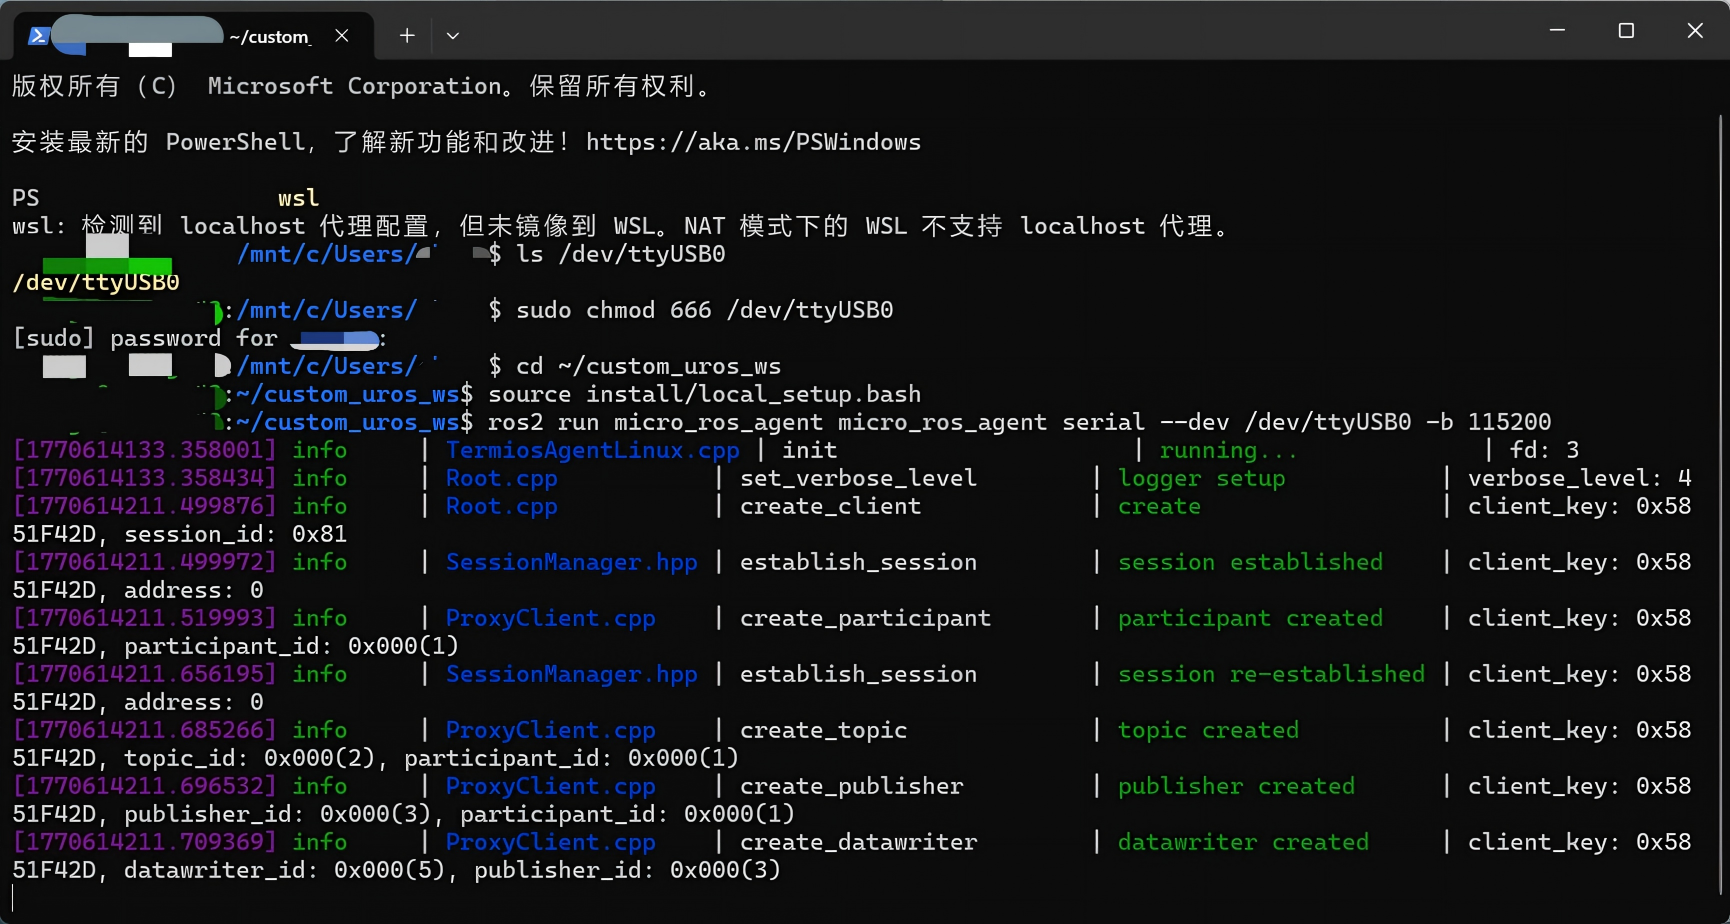
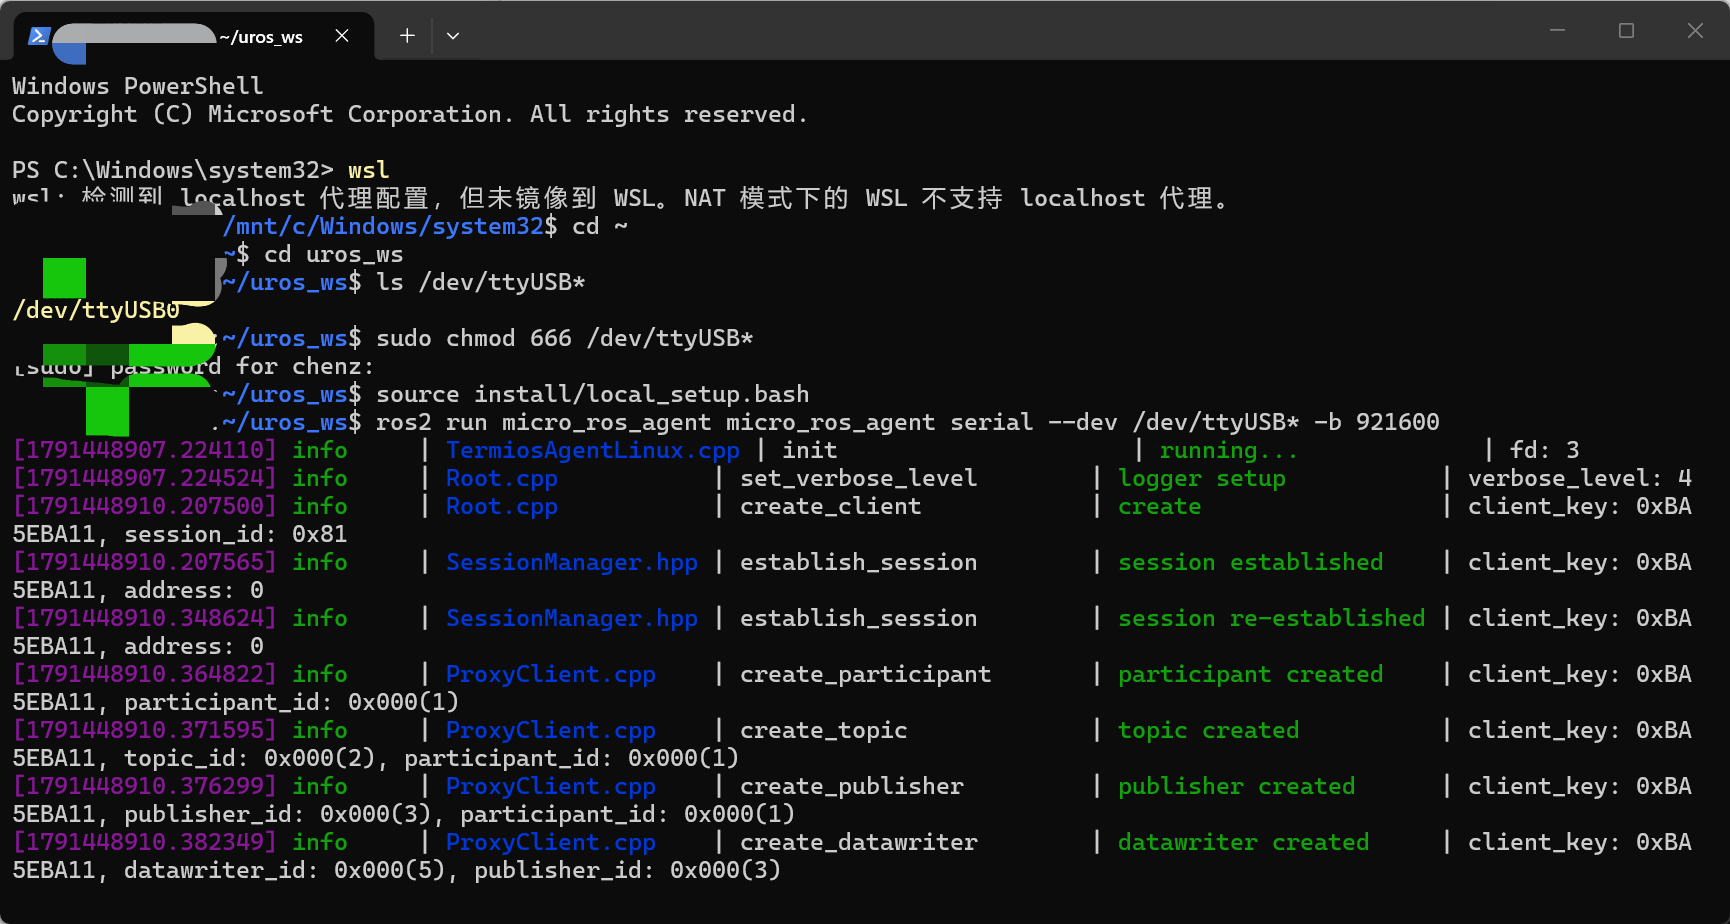
add microros 中间件配置 doc

diff --git a/docs/zh/Electrical/Lib/MicroROS/中间件配置/中间件配置.md b/docs/zh/Electrical/Lib/MicroROS/中间件配置/中间件配置.md
@@ -1,0 +1,115 @@
+# 中间件配置
+
+[官方参考资料](https://micro.vulcanexus.org/docs/tutorials/advanced/microxrcedds_rmw_configuration/)
+
+micro-ROS是专门运行在资源极度有限的微控制器上的 ROS 2。由于单片机的内存十分有限，不能随意浪费，所以精打细算的内存配置和**调优**是必不可少的，这样才能让micro-ROS在极小内存的芯片上高效运行。
+
+## 为什么要调优
+
++ **痛点：**普通电脑上的 ROS 2 喜欢用动态内存分配，但这在单片机上极易导致内存碎片化或内存溢出崩溃。
++ **解决策略：**micro-ROS 几乎把所有内存都改成了静态内存池，相当于提前占好固定大小的位置。
++ **带来的要求：**开发者必须在编译前做调优，用几个节点，发多大的包，都需要“量身定制”。
+
+## 内存资源优化
+
+### 底层的 Micro XRCE-DDS（负责数据网络传输）
+
+单片机和上位机之间是通过 **Stream（流/消息队列）** 进行通信的。流分为两种模式：
+
+![](./picture/p1.png)
+
+![](./picture/p2.png)
+
+| 通信模式                    | 工作方式                                                 | 内存结构                                                  | 最大消息长度             |
+| :-------------------------- | :------------------------------------------------------- | :-------------------------------------------------------- | :----------------------- |
+| **Best-Effort（尽力而为）** | 像单格信箱，信件只放一封，发出去就不管了，丢了不补发。   | 只有一个数据缓冲区，每次只能 推送一条消息。               | MTU - 12字节             |
+| **Reliable（可靠传输）**    | 像多格储物柜，把缓冲区切成多个槽位，支持重发和确认应答。 | 缓冲区被切分为多个连续的槽位，存放多条待确认/重发的消息。 | (MTU - 12字节) *槽位数量 |
+
+> **关键 CMake 调优参数：**
+>
+> - **单次传输单元大小（MTU）**：
+>   - 根据通信方式（UDP/TCP/串口）设置：`UCLIENT_UDP_TRANSPORT_MTU`、`UCLIENT_TCP_TRANSPORT_MTU`、`UCLIENT_SERIAL_TRANSPORT_MTU`。
+>   - 它决定了尽力而为流的缓冲区大小，同时也等于可靠流中**单个槽位**的大小。
+> - **可靠流的槽位数量（History）**：
+>   - `RMW_UXRCE_STREAM_HISTORY`：决定可靠传输队列里最多能存几条消息。
+> - **QoS 关联**：在代码中通过 QoS 策略选择是 `BEST_EFFORT` 还是 `RELIABLE`，底层就会走对应的缓冲区逻辑。
+
+### 上层的 rmw-microxrcedds （ROS 2 实体内存池）
+
+为了管理 ROS 概念中的节点、话题发布者、订阅者等，系统为每一种类型都分配了**独立的静态内存池**。
+
+![](./picture/p3.png)
+
+#### 实体与 CMake 配置参数对应关系
+
+- `rcl_node_t`（节点） -->  `RMW_UXRCE_MAX_NODES`
+- `rcl_publisher_t`（发布者） -->  `RMW_UXRCE_MAX_PUBLISHERS`
+- `rcl_subscriber_t`（订阅者） -->  `RMW_UXRCE_MAX_SUBSCRIPTIONS`
+- `rcl_services_t`（服务服务端） -->  `RMW_UXRCE_MAX_SERVICES`
+- `rcl_client_t`（服务客户端） -->  `RMW_UXRCE_MAX_CLIENTS`
+- `rcl_context_t`（会话上下文） -->  `RMW_UXRCE_MAX_SESSIONS`
+
+#### 消息历史队列大小
+
+- `RMW_UXRCE_MAX_HISTORY`：订阅者在读取消息前，用于暂存消息的历史队列深度。
+
+#### 配置示例（`.meta` 配置文件裁剪）
+
+![](./picture/p4.png)
+
+官方文档（上图）给出了一个乒乓球示例中修改 `.meta` 文件的做法：
+
+- 默认创建 3 个节点、5 个发布者、5 个服务等；
+- 精简参数：
+  - 节点设为 **1**（`-DRMW_UXRCE_MAX_NODES=1`）
+  - 发布者/订阅者设为 **2**（`-DRMW_UXRCE_MAX_PUBLISHERS=2`, `SUBSCRIPTIONS=2`）
+  - 用不到的 Service 和 Client 直接**设为 0**（省下大量内存）
+  - 历史队列从 20 砍到 **5**。
+
+读者可以自行尝试。
+
+## 动态配置参数
+
+除了在编译前写死在 `.meta` 文件中，micro-ROS 还允许开发者**在程序运行初始化时**通过 C 语言 API 动态配置连接参数。
+
+### 可配置的项目
+
+- Agent 的 IP 地址和端口
+- 串口设备路径
+- **客户端唯一标识：`client_key`**
+
+### API调用步骤解析
+
+```c
+#include <rmw_microros/rmw_microros.h>
+
+// 1. 初始化 RCL 选项和上下文结构体
+rcl_init_options_t init_options = rcl_get_zero_initialized_init_options();
+rcl_context_t context = rcl_get_zero_initialized_context();
+rcl_init_options_init(&init_options, rcl_get_default_allocator());
+
+// 2. 从 RCL 选项中提取出底层的 RMW 配置句柄
+rmw_init_options_t* rmw_options = rcl_init_options_get_rmw_init_options(&init_options);
+
+// 3. 动态设置 IP 和端口（例如：127.0.0.1 : 8888）
+rmw_uros_options_set_udp_address("127.0.0.1", "8888", rmw_options);
+
+// 或 动态设置串口设备（例如：/dev/ttyAMA0）
+rmw_uros_options_set_serial_device("/dev/ttyAMA0", rmw_options);
+
+// 4. 设置固定的 client_key（例如：0xBA5EBA11）
+rmw_uros_options_set_client_key(0xBA5EBA11, rmw_options);
+
+// 5. 正式启动初始化
+rcl_init(0, NULL, &init_options, &context);
+
+```
+
+### 关于`client_key` 
+
+- **默认情况**：如果开发者不指定，客户端每次启动都会**随机生成**一个 `client_key`。
+- **设置固定值的好处**：如果单片机重启或意外断线重连，上位机可以通过这个固定的 key **识别出“还是同一个客户端”**，直接**复用**之前在 Agent 端已经创建好的 DDS 实体资源，避免 Agent 每次都重新分配资源导致内存浪费或握手延迟。
+
+![](./picture/p5.png)
+
+但实际上笔者发现，单片机上生成的 `client_key` 是一个**固定值**，无论重启多少次。翻阅资料后发现，一个独立的单片机系统，如果不引入一个随机信号，永远不能实现随机的效果，即**伪随机数**，所以我们能看到 `client_key` 为定值。不过笔者还是建议设置一个固定值，防止如果有两个客户端共用相同的 `client_key` ，Agent会识别**混淆**。

diff --git a/docs/zh/Electrical/Lib/MicroROS/详细配置指南/详细配置指南.md b/docs/zh/Electrical/Lib/MicroROS/详细配置指南/详细配置指南.md
@@ -11,7 +11,7 @@
 
 + **选择串口**：这里使用 **USART3** （可自行选择）。
 + **Mode**： 选择 `Asynchronous`（异步模式）。
-+ **Baud Rate（在Parameter Settings中）**: 设置为 `115200`（需与之后电脑上的 Agent 匹配）。
++ **Baud Rate（在Parameter Settings中）**: 设置为 `921600`（需与之后电脑上的 Agent 匹配）。
 + **DMA Settings (关键)**：
   1. 点击 `Add` 按钮，添加 `USART3_RX` 和 `USART3_TX`。
   2. 将 **Priority**（优先级）均设为 `High`。
@@ -96,7 +96,7 @@ print_cflags:
 
 ```
 cd /mnt/地址         注意：（C、D盘后的冒号改成‘/’，‘\’也改成'/'，磁盘名称改为小写）
-cd /mnt/c/Users/chenz/Desktop/micro_ros_stm32cubemx_utils
+
 docker pull microros/micro_ros_static_library_builder:humble
 // 这里的humble依据版本自行修改
 
@@ -285,7 +285,7 @@ ros2 run micro_ros_setup build_agent.sh
 source install/setup.bash
 
 # 2. 尝试运行你的 Agent
-ros2 run micro_ros_agent micro_ros_agent serial --dev /dev/ttyUSB0 -b 115200
+ros2 run micro_ros_agent micro_ros_agent serial --dev /dev/ttyUSB0 -b 921600
 ```
 
 在执行最后一行命令前，可重启wsl终端，进行如下操作：
@@ -311,7 +311,7 @@ ls /dev/ttyUSB*                      //查询串口映射
 sudo chmod 666 /dev/ttyUSB*          //给予串口最高读写权限
 cd ~/uros_ws                           //切换至工作目录下
 source install/local_setup.bash      //加载相应资源
-ros2 run micro_ros_agent micro_ros_agent serial --dev /dev/ttyUSB* -b 115200 
+ros2 run micro_ros_agent micro_ros_agent serial --dev /dev/ttyUSB* -b 921600
                                      //构建agent
 ```
 

diff --git a/docs/zh/Electrical/Lib/MicroROS/自定义消息+静态库/自定义消息+静态库.md b/docs/zh/Electrical/Lib/MicroROS/自定义消息+静态库/自定义消息+静态库.md
@@ -190,7 +190,7 @@ ros2 run micro_ros_setup build_firmware.sh $(pwd)/my_custom_toolchain.cmake $(pw
                   "-DUCLIENT_PROFILE_TCP=OFF",
                   "-DUCLIENT_PROFILE_DISCOVERY=OFF",
                   "-DUCLIENT_PROFILE_SERIAL=OFF",
-                  "-UCLIENT_PROFILE_STREAM_FRAMING=ON",
+                  "-DUCLIENT_PROFILE_STREAM_FRAMING=ON",
                   "-DUCLIENT_PROFILE_CUSTOM_TRANSPORT=ON"
               ]
           },
